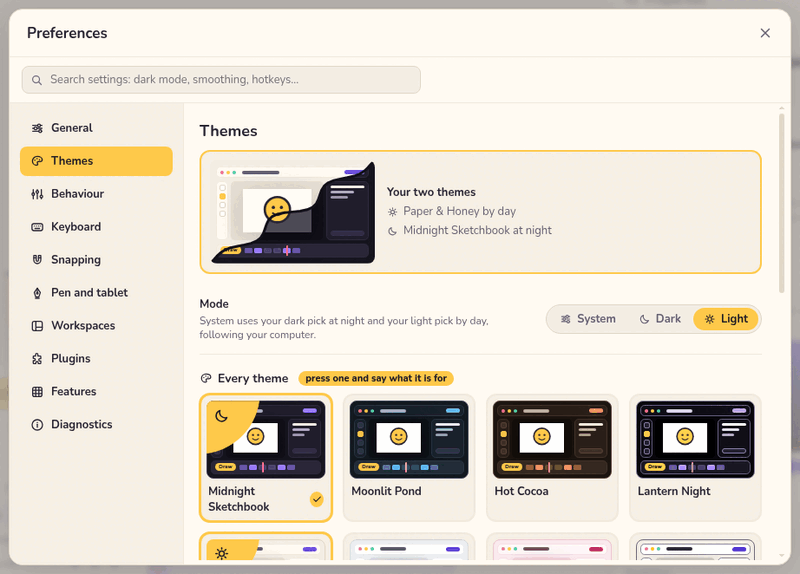
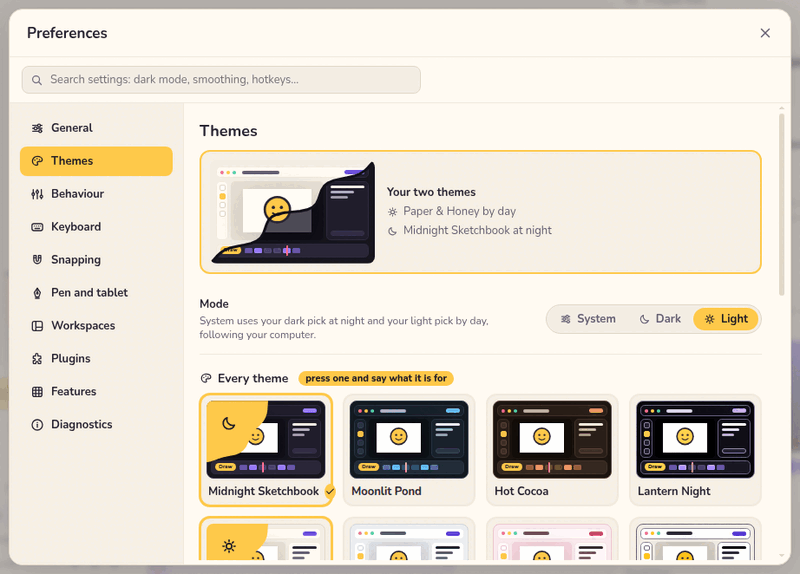
Themes: a wiggle along the folded corner, and the sun or moon bigger and sitting in the middle of the yellow

diff --git a/src/ui/ui.css b/src/ui/ui.css
@@ -3261,37 +3261,38 @@ body.ui-resizing * {
   padding: 0 2px;
 }
 .th-card-badges {
-  /* A folded corner on the card, curved like a page turned over, with the sun or the moon sitting on it. */
+  /* A folded corner on the card, turned over with a wiggle in it, the sun or the moon sitting in the middle of it. */
   position: absolute;
   top: 0;
   left: 0;
   display: flex;
   flex-direction: column;
-  align-items: flex-start;
-  justify-content: flex-start;
-  gap: 1px;
-  width: 54px;
-  height: 54px;
-  /* The icon sits where the fold is widest, not at its point. */
-  padding: 7px 0 0 7px;
+  align-items: center;
+  justify-content: center;
+  gap: 0;
+  width: 52px;
+  height: 52px;
+  /* The fold's weight is up in its corner, so the icon is nudged there to sit in the middle of the yellow. */
+  padding: 0 19px 19px 0;
   border-top-left-radius: var(--radius-small);
   background: var(--chosen-bg);
   color: var(--chosen-fg);
-  clip-path: polygon(100% 0%, 98.2% 10.5%, 95.4% 20.8%, 91.5% 30.9%, 86.7% 40.7%, 81% 50.1%, 74.4% 58.8%, 67% 67%, 58.8% 74.4%, 50.1% 81%, 40.7% 86.7%, 30.9% 91.5%, 20.8% 95.4%, 10.5% 98.2%, 0% 100%, 0% 0%);
+  clip-path: polygon(100% 0%, 99.5% 6.8%, 99.1% 13.7%, 98.1% 20.6%, 95.9% 27.4%, 92.3% 33.6%, 87.4% 39.1%, 82.2% 44.1%, 77.5% 49.2%, 73.6% 54.6%, 70.6% 60.9%, 67.8% 67.8%, 64.4% 74.7%, 59.9% 80.6%, 54% 85%, 47.2% 87.8%, 40% 89.4%, 32.9% 90.5%, 26.2% 92%, 19.8% 94.1%, 13.3% 96.6%, 6.7% 98.8%, 0% 100%, 0% 0%);
 }
 .th-card-badges.is-both {
-  width: 64px;
-  height: 64px;
+  width: 62px;
+  height: 62px;
+  padding: 0 21px 21px 0;
 }
 .th-card-badge {
   display: grid;
   place-items: center;
-  width: 20px;
-  height: 20px;
+  width: 21px;
+  height: 21px;
 }
 .th-card-badge svg {
-  width: 19px;
-  height: 19px;
+  width: 20px;
+  height: 20px;
 }
 .th-card-pick {
   position: relative;

diff --git a/src/ui/themes/ThemesPage.tsx b/src/ui/themes/ThemesPage.tsx
@@ -63,12 +63,12 @@ function ThemeCard({ theme, use, onPick, onCopy, onEdit }: { theme: Theme; use: 
           <span className={`th-card-badges${use.day && use.night ? ' is-both' : ''}`} aria-hidden="true">
             {use.day && (
               <span className="th-card-badge is-day" title="Your theme by day">
-                <Icon name="sun" size={19} />
+                <Icon name="sun" size={20} />
               </span>
             )}
             {use.night && (
               <span className="th-card-badge is-night" title="Your theme at night">
-                <Icon name="moon" size={19} />
+                <Icon name="moon" size={20} />
               </span>
             )}
           </span>

diff --git a/brand/ab/themes-pick/note.md b/brand/ab/themes-pick/note.md
@@ -10,3 +10,5 @@
   day one, instead of a small round dot. Both means a bigger corner with the two icons on it.
 - **earmark-curved-dark / earmark-curved-light**: the fold is curved now, like a page corner turned over, and the
   sun or moon on it is bigger and sits where the fold is widest.
+- **earmark-wiggly-dark / earmark-wiggly-light**: a wiggle along the fold, and the sun or moon bigger and sitting in
+  the middle of the yellow rather than tucked into the corner.
